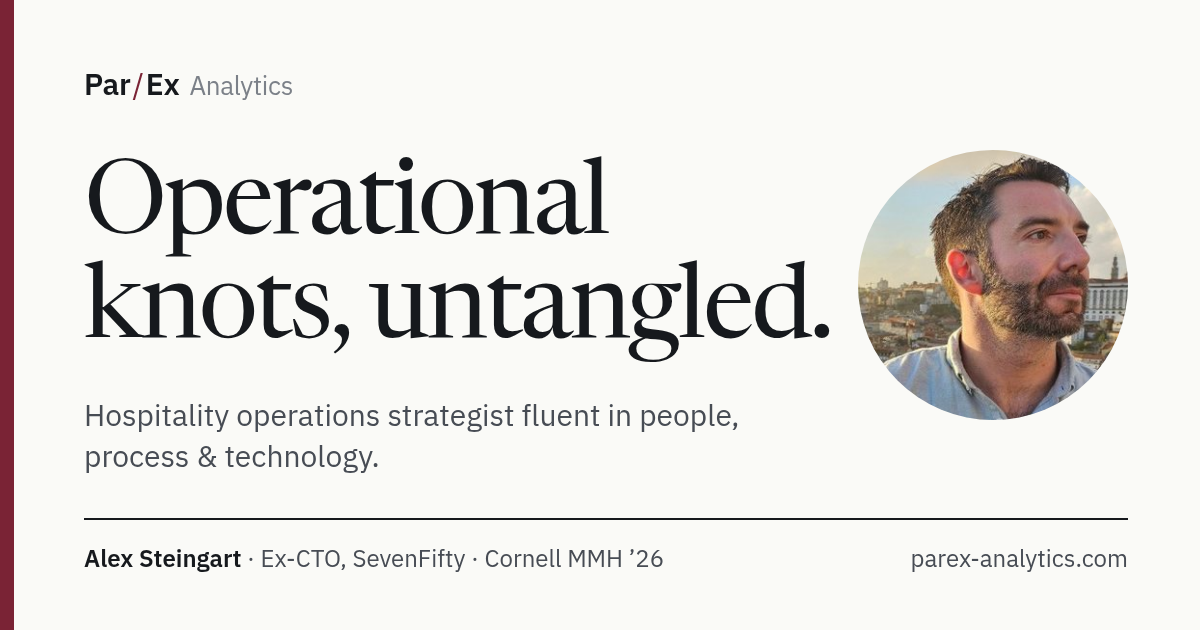
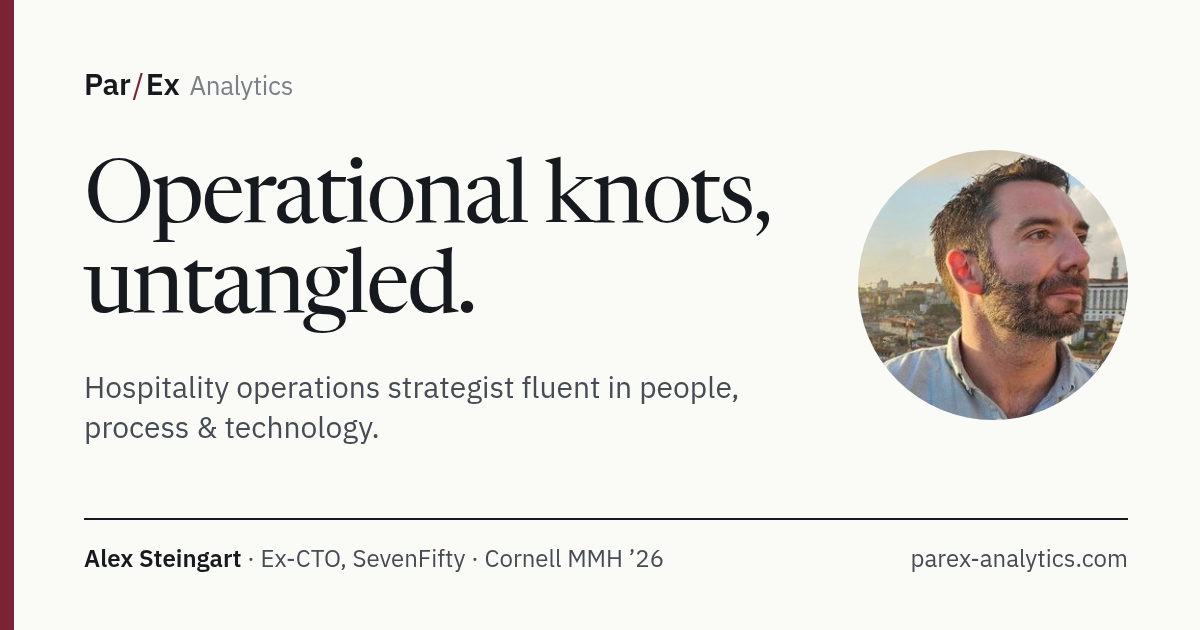
share card: smaller headline so 'Operational knots,' fits on one line

Changed region(s): [[0.0617, 0.2413, 0.7092, 0.573], [0.0617, 0.6032, 0.6167, 0.754]]

diff --git a/_og/card.html b/_og/card.html
@@ -13,7 +13,7 @@
   .brand { font-size: 30px; font-weight: 600; letter-spacing: -0.01em; }
   .brand span { color: #7A2335; font-weight: 400; margin: 0 2px; }
   .brand small { font-size: 26px; font-weight: 400; color: #7B8088; margin-left: 10px; }
-  h1 { font: 400 104px/1.0 'Newsreader', serif; letter-spacing: -0.03em; margin: 54px 0 0; max-width: 760px; }
+  h1 { font: 400 88px/1.02 'Newsreader', serif; letter-spacing: -0.03em; margin: 54px 0 0; max-width: 750px; }
   .sub { margin-top: 30px; font-size: 30px; line-height: 1.35; color: #474C54; max-width: 700px; }
   .foot { margin-top: auto; display: flex; align-items: center; justify-content: space-between; border-top: 2px solid #16191D; padding-top: 22px; font-size: 24px; color: #474C54; }
   .foot b { color: #16191D; font-weight: 600; }
